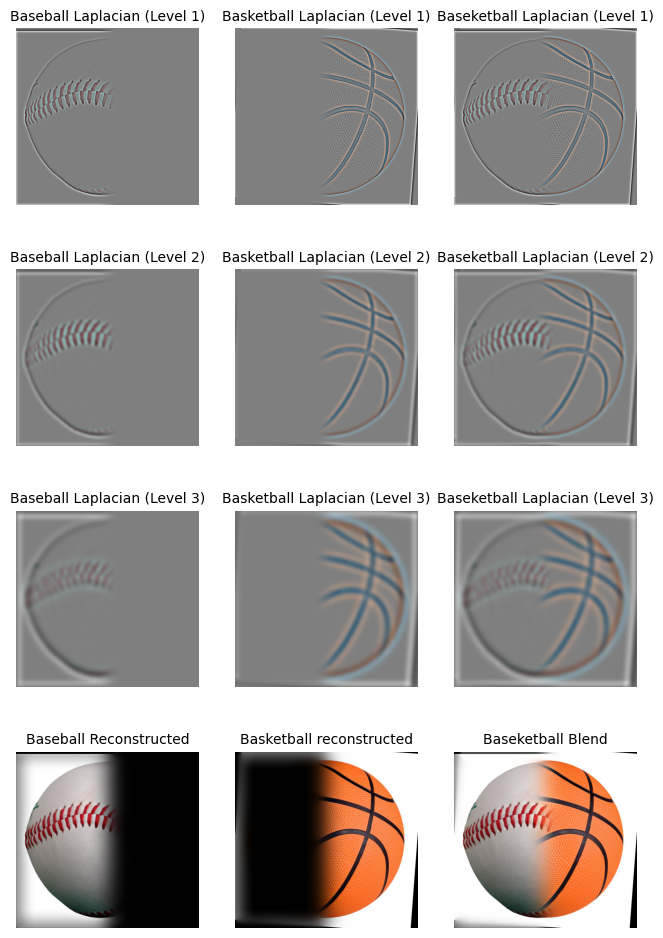
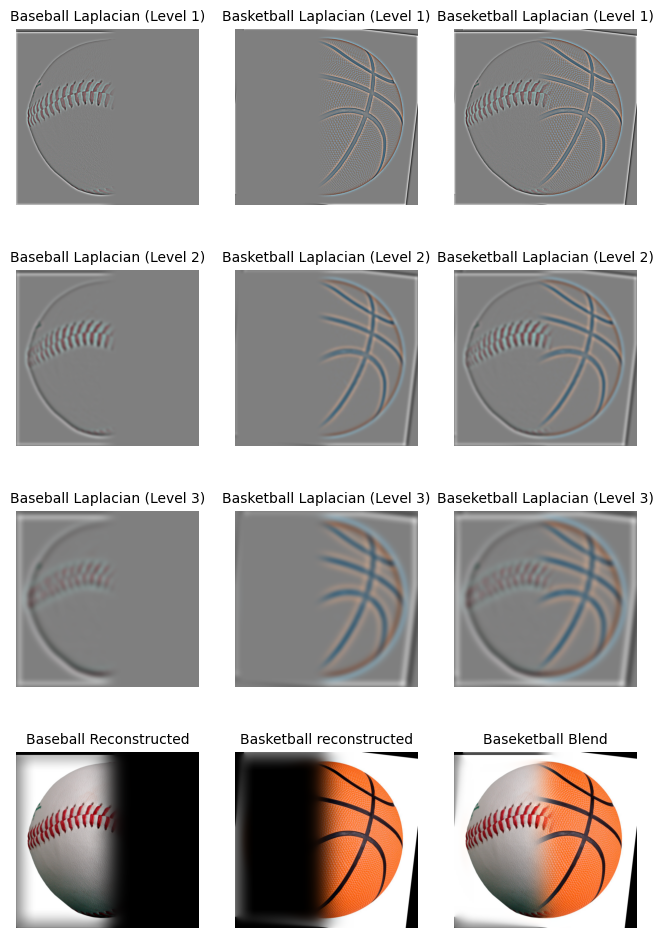
baseketball update

diff --git a/proj2/index.html b/proj2/index.html
@@ -19,6 +19,8 @@
         max-height: 300px; /* adjust height as needed */
         height: auto;
         width: auto;
+        border: 2px solid black;
+        border-radius: 10px;
       }
     </style>
   </head>
@@ -418,15 +420,9 @@
           <div>
             <img src="media/orple.png" alt="" style="max-height: 800px" />
           </div>
-        </div>
-
-        <div class="img-container">
           <div>
             <img src="media/baseketball.png" alt="" style="max-height: 800px" />
           </div>
-        </div>
-
-        <div class="img-container">
           <div>
             <img src="media/handclock.png" alt="" style="max-height: 800px" />
           </div>
